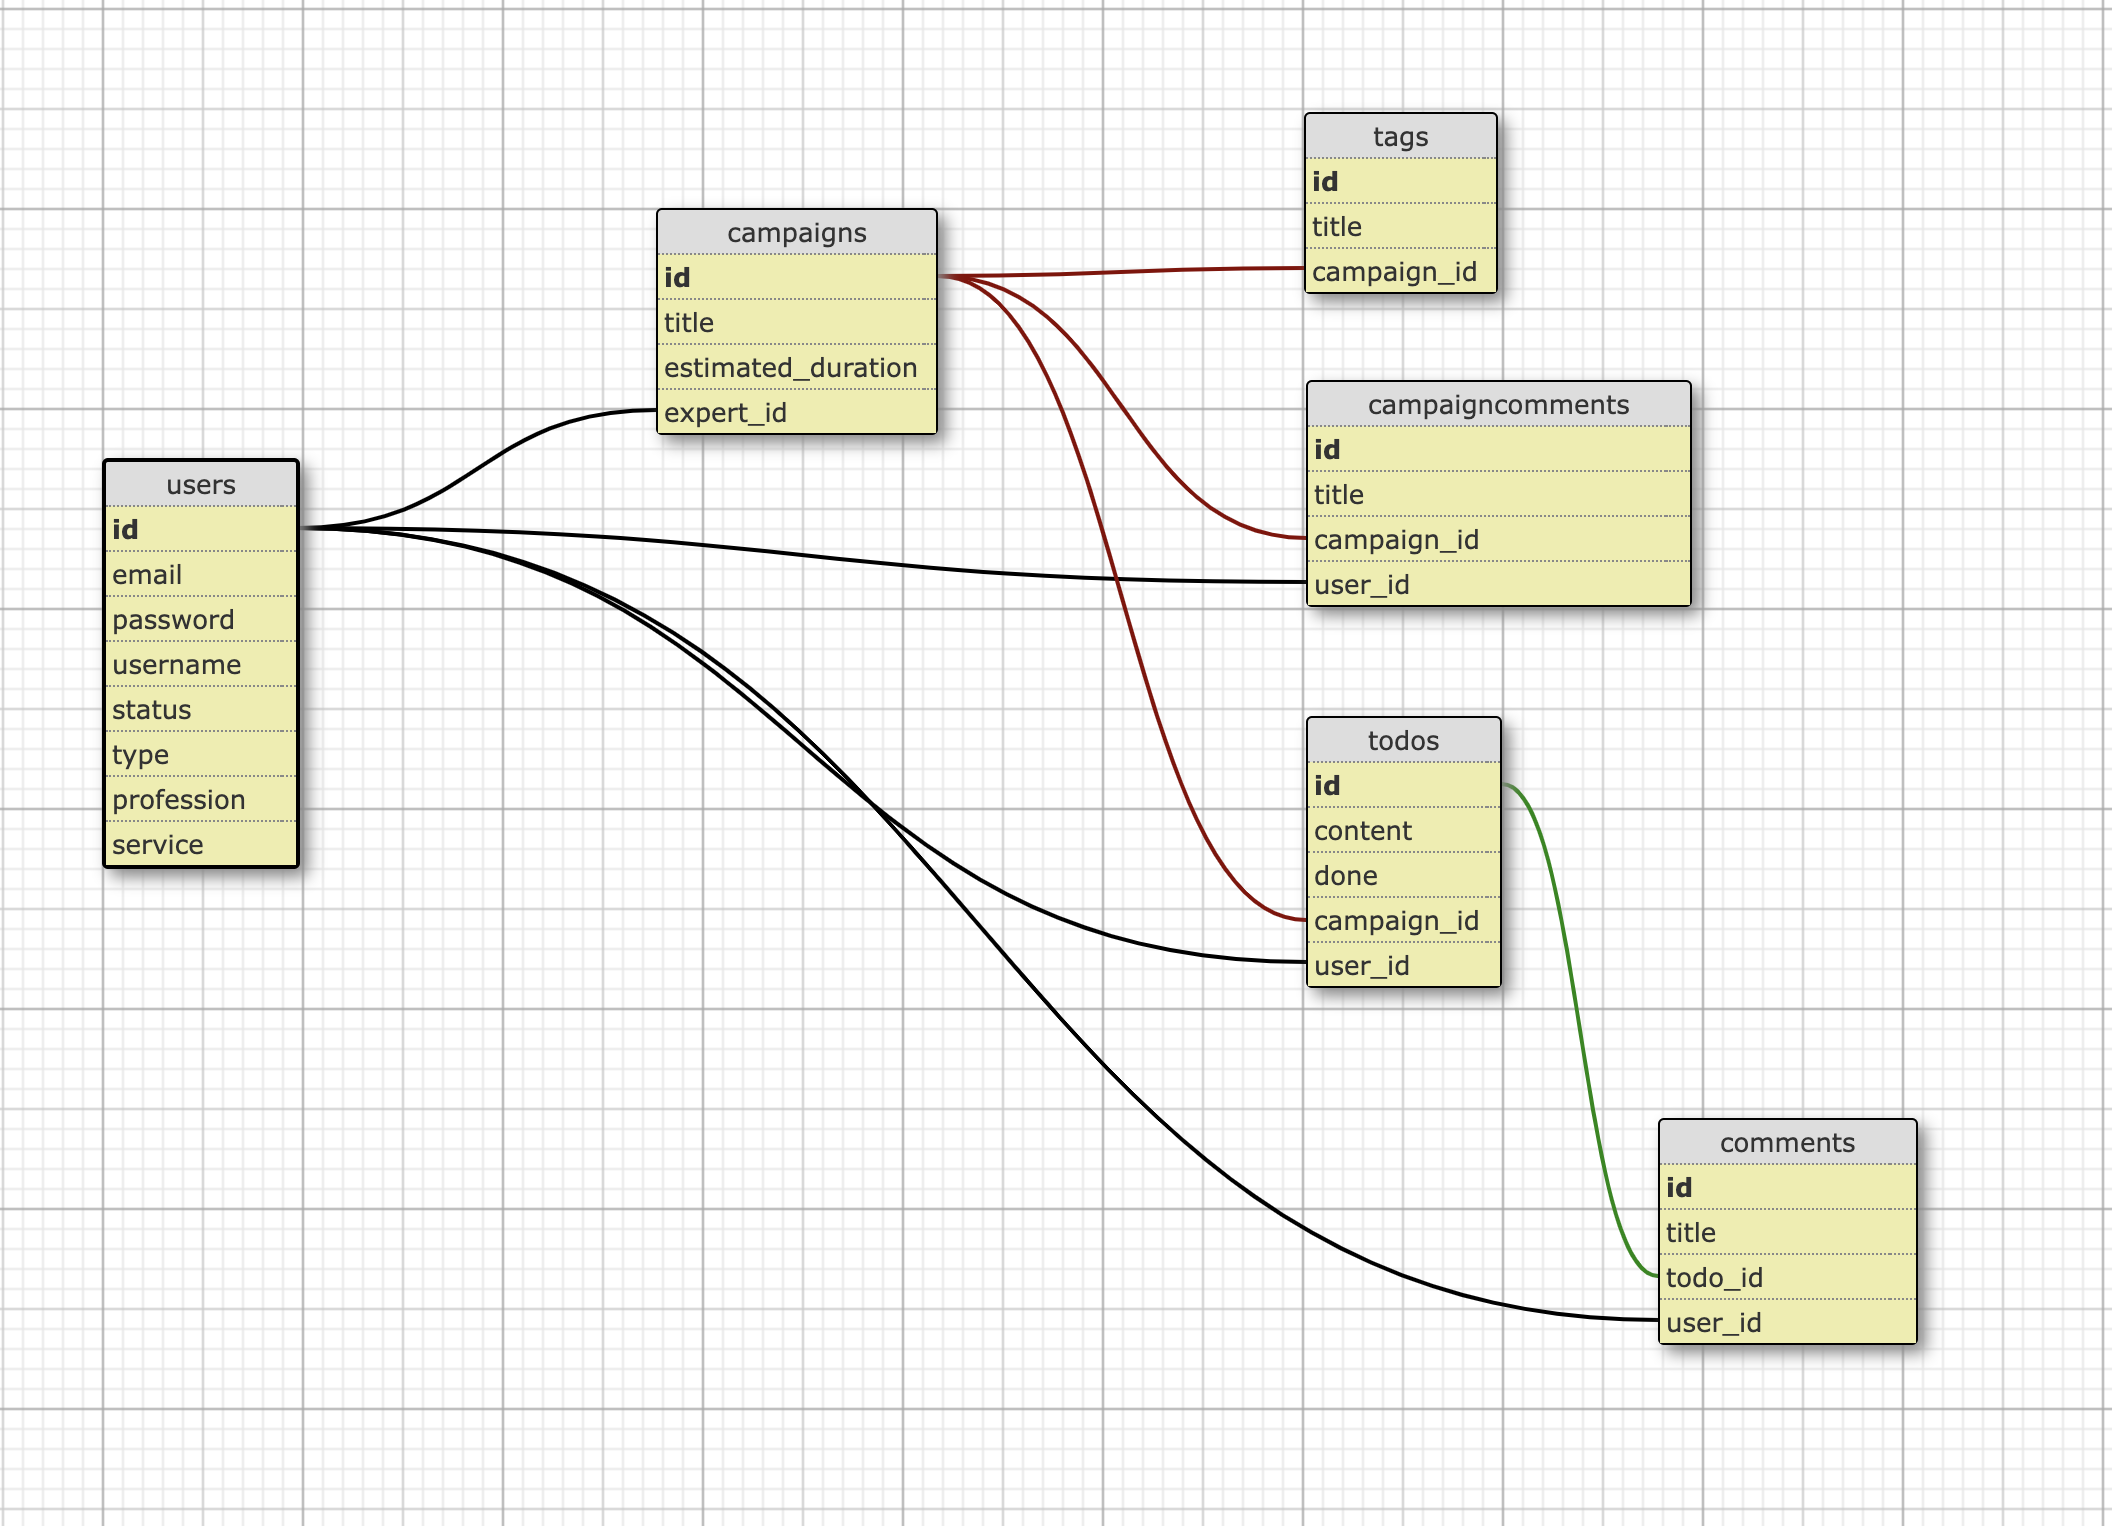
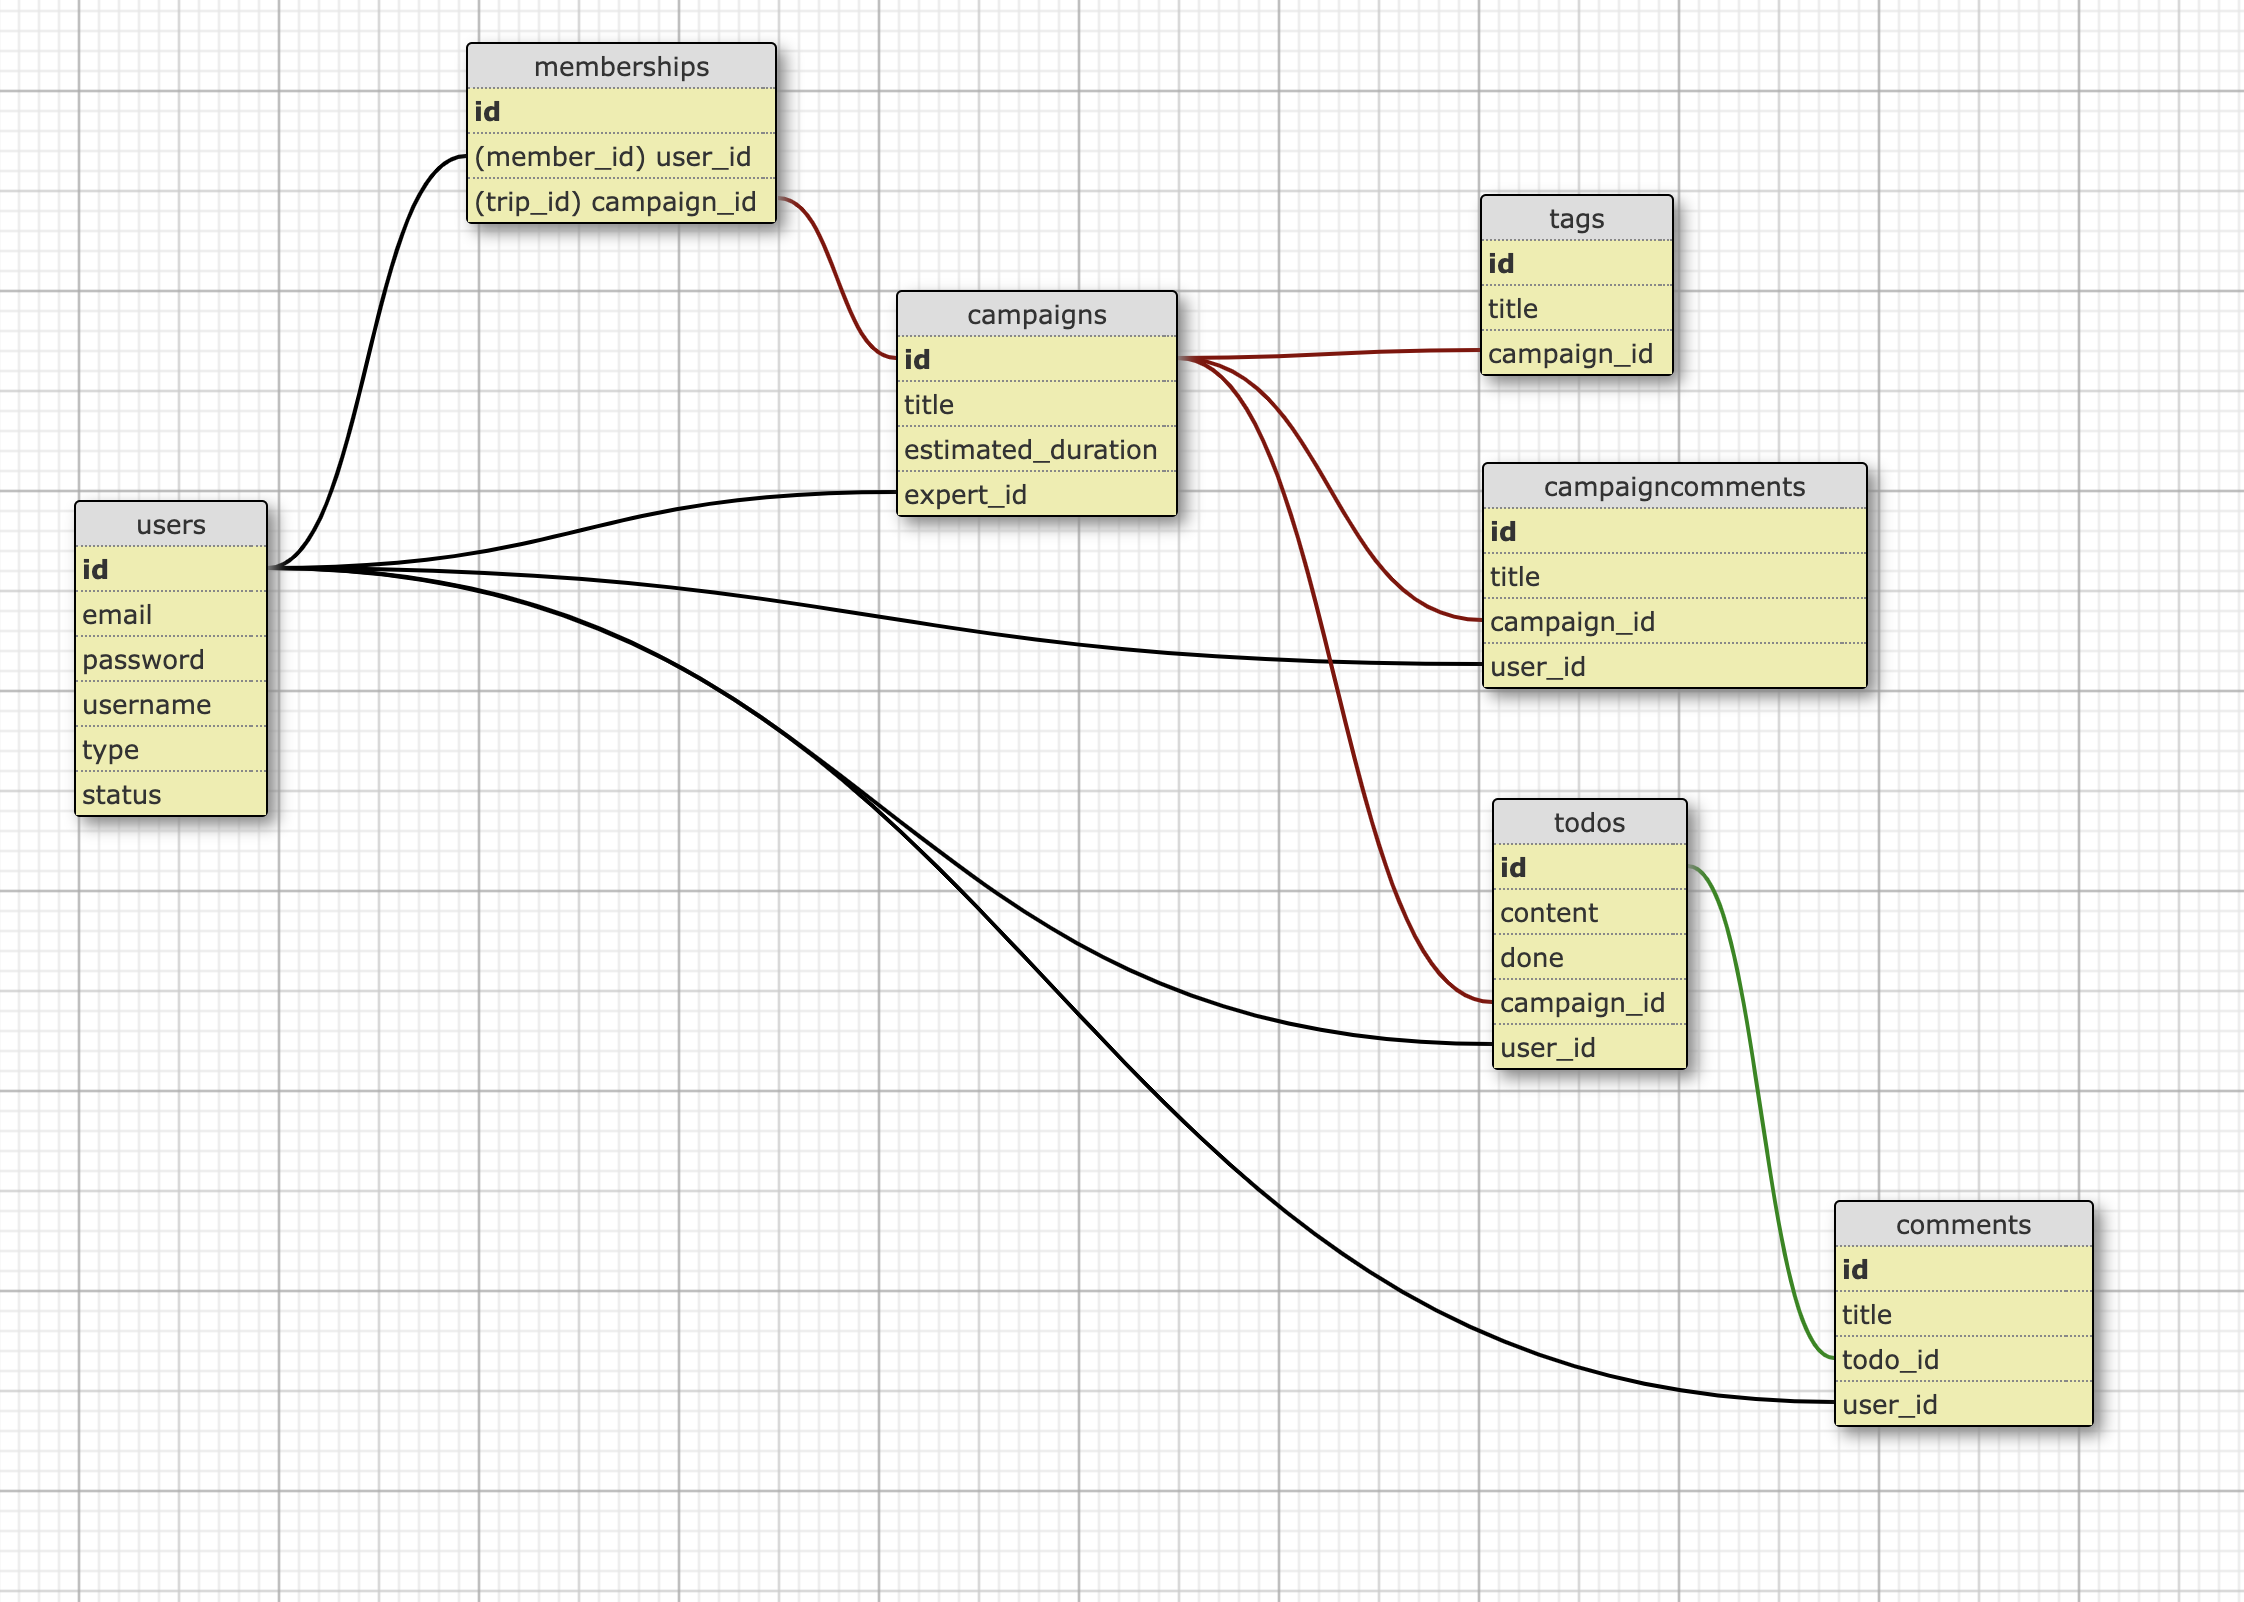
[DB] Memberships: join table for users/campaigns

diff --git a/db/schema.rb b/db/schema.rb
@@ -10,7 +10,7 @@
 #
 # It's strongly recommended that you check this file into your version control system.
 
-ActiveRecord::Schema[7.0].define(version: 2023_10_20_074158) do
+ActiveRecord::Schema[7.0].define(version: 2023_10_20_075509) do
   # These are extensions that must be enabled in order to support this database
   enable_extension "plpgsql"
 
@@ -41,6 +41,15 @@ ActiveRecord::Schema[7.0].define(version: 2023_10_20_074158) do
     t.datetime "updated_at", null: false
     t.index ["todo_id"], name: "index_comments_on_todo_id"
     t.index ["user_id"], name: "index_comments_on_user_id"
+  end
+
+  create_table "memberships", force: :cascade do |t|
+    t.bigint "user_id", null: false
+    t.bigint "campaign_id", null: false
+    t.datetime "created_at", null: false
+    t.datetime "updated_at", null: false
+    t.index ["campaign_id"], name: "index_memberships_on_campaign_id"
+    t.index ["user_id"], name: "index_memberships_on_user_id"
   end
 
   create_table "tags", force: :cascade do |t|
@@ -83,4 +92,6 @@ ActiveRecord::Schema[7.0].define(version: 2023_10_20_074158) do
   add_foreign_key "campaigncomments", "users"
   add_foreign_key "comments", "todos"
   add_foreign_key "comments", "users"
+  add_foreign_key "memberships", "campaigns"
+  add_foreign_key "memberships", "users"
 end

diff --git a/app/models/membership.rb b/app/models/membership.rb
@@ -1,0 +1,7 @@
+class Membership < ApplicationRecord
+  # to avoid confusion between user who is the owner and users who are the members
+  belongs_to :member, class_name: "User", foreign_key: "user_id"
+
+  # to avoid confusion between the campaign user owns and the ones he is a member in
+  belongs_to :trip, class_name: "Campaign", foreign_key: "campaign_id"
+end

diff --git a/db/migrate/20231020075509_create_memberships.rb b/db/migrate/20231020075509_create_memberships.rb
@@ -1,0 +1,10 @@
+class CreateMemberships < ActiveRecord::Migration[7.0]
+  def change
+    create_table :memberships do |t|
+      t.references :user, null: false, foreign_key: true
+      t.references :campaign, null: false, foreign_key: true
+
+      t.timestamps
+    end
+  end
+end

diff --git a/test/models/membership_test.rb b/test/models/membership_test.rb
@@ -1,0 +1,7 @@
+require "test_helper"
+
+class MembershipTest < ActiveSupport::TestCase
+  # test "the truth" do
+  #   assert true
+  # end
+end
